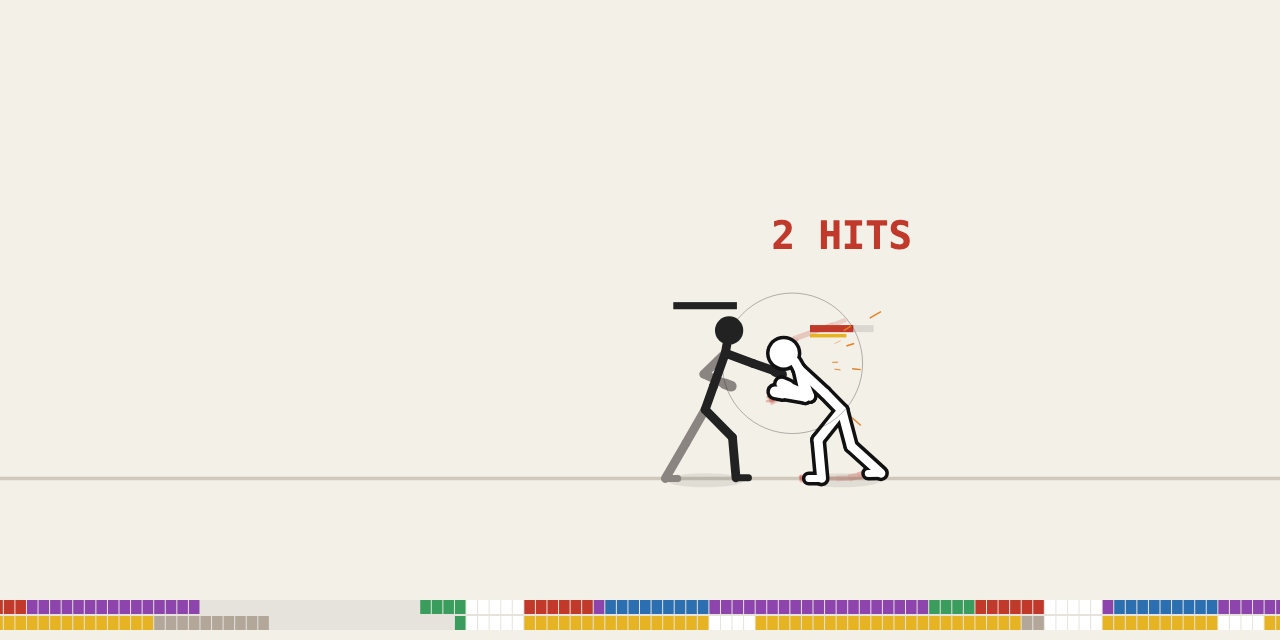
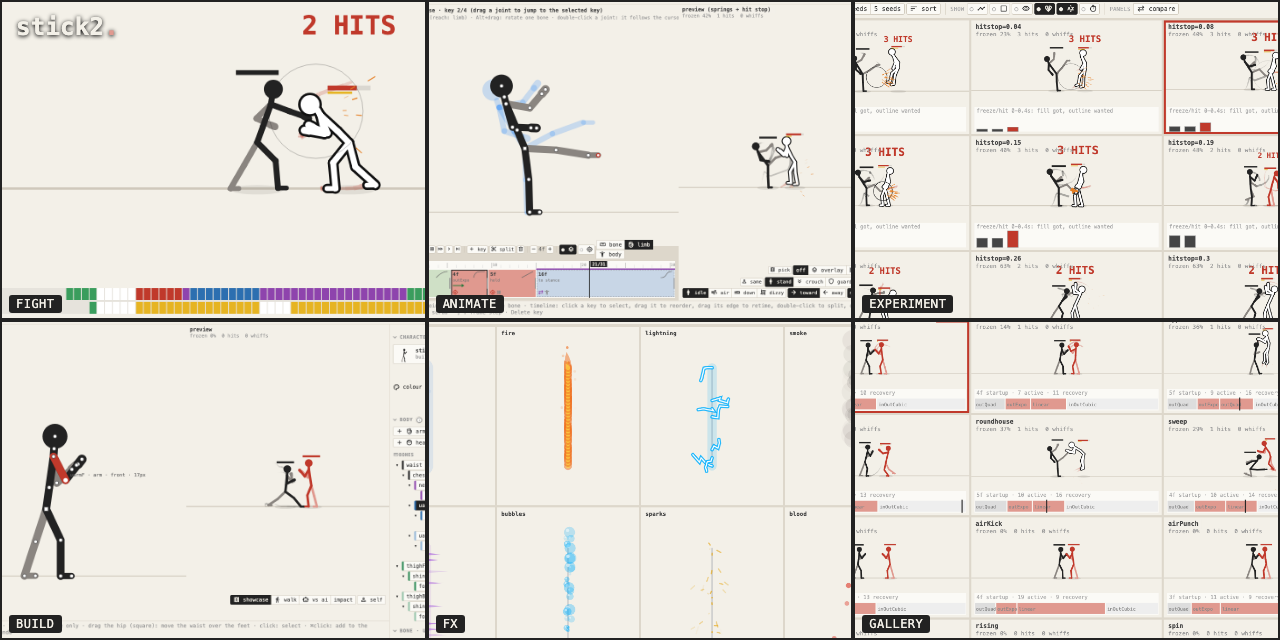
Social preview: a grid of six tools, not just one fight
- new tools/social.js composites existing docs/img screenshots
  (fight, animate, experiment, character, fx, gallery) into
  docs/img/social.png via headless Chrome and CSS background-image -
  no new dependency, same pattern as screenshots.js/animations.js
- removes the single-scene 'social' shot from screenshots.js (same
  output path, would have overwritten the composite)
- documented in docs/README.md and docs/development.md

diff --git a/tools/social.js b/tools/social.js
@@ -1,0 +1,29 @@
+// the GitHub repo's social preview image (1280 × 640, Settings → General → Social preview): a grid of existing
+// docs/img screenshots, composited by headless Chrome (CSS background-image, no new dependency). usage: node tools/social.js
+const fs = require('fs'), os = require('os'), path = require('path'), { execFileSync } = require('child_process');
+const root = path.join(__dirname, '..'), imgDir = path.join(root, 'docs', 'img'), out = path.join(imgDir, 'social.png');
+const { findChrome } = require('./chrome'), chrome = findChrome();
+if (!chrome) { console.log('no Chrome found (set CHROME)'); process.exit(1); }
+
+const W = 1280, H = 640, COLS = 3, ROWS = 2, cellW = W / COLS, cellH = H / ROWS;
+// one tile per tool, each an existing docs/img shot (node tools/screenshots.js regenerates them)
+const TILES = [
+  ['play', 'fight'], ['animate', 'animate'], ['experiment', 'experiment'],
+  ['character', 'build'], ['fx', 'fx'], ['gallery', 'gallery'],
+];
+const cells = TILES.map(([img, label], i) => {
+  const x = (i % COLS) * cellW, y = Math.floor(i / COLS) * cellH;
+  return `<div class="cell" style="left:${x}px;top:${y}px;width:${cellW}px;height:${cellH}px;background-image:url(file://${path.join(imgDir, img + '.png')})"><span>${label}</span></div>`;
+}).join('');
+const html = `<!doctype html><meta charset="utf-8"><style>
+html, body { margin: 0; width: ${W}px; height: ${H}px; background: #222; overflow: hidden; font: 12px ui-monospace, Menlo, monospace; }
+.cell { position: absolute; background-size: cover; background-position: center; box-sizing: border-box; border: 2px solid #222; }
+.cell span { position: absolute; left: 7px; bottom: 5px; background: #222; color: #f3f0e8; padding: 2px 7px; border-radius: 3px; font-size: 12px; letter-spacing: .04em; text-transform: uppercase; }
+.badge { position: absolute; left: 16px; top: 13px; z-index: 2; color: #f3f0e8; font-weight: bold; font-size: 24px; letter-spacing: .01em; text-shadow: 0 1px 4px #000; }
+.badge b { color: #e0998f; }
+</style><body>${cells}<div class="badge">stick2<b>.</b></div></body>`;
+const page = path.join(os.tmpdir(), 'stick2-social.html');
+fs.writeFileSync(page, html);
+execFileSync(chrome, ['--headless=new', '--disable-gpu', '--allow-file-access-from-files', '--hide-scrollbars', `--window-size=${W},${H}`,
+  '--virtual-time-budget=2000', `--screenshot=${out}`, 'file://' + page], { stdio: 'inherit' });
+console.log(path.relative(root, out));

diff --git a/tools/screenshots.js b/tools/screenshots.js
@@ -11,8 +11,6 @@ const SHOTS = {
   play: [`lab.scen = 'ai vs ai'; setMode('play'); lab.meter = true; build(); panels(); ${run(150)}`, [0, 400, 1100, 370]],
   // the itch.io cover image (630 × 500)
   cover: [`lab.scen = 'ai vs ai'; setMode('play'); lab.meter = true; build(); panels(); ${run(150)}`, [440, 268, 630, 500]],
-  // the GitHub repo's social preview image (1280 × 640, Settings → General → Social preview): theater mode, no UI chrome
-  social: [`lab.scen = 'ai vs ai'; setMode('play'); lab.meter = true; build(); panels(); setTheater(true); ${run(150)}`, [60, 160, 1280, 640]],
   animate: [`setMode('animate'); anim.move = 'roundhouse'; animMode.enter(); panels(); anim.t = 0.35; anim.playing = false; previewAt(anim.t); mode().render();`, [0, 80, 1100, 720]],
   character: [`setMode('character'); panels(); ${run(30)}`, [0, 80, 1400, 720]],
   gallery: [`setMode('gallery'); panels(); ${run(40)}`, [0, 80, 1100, 600]],

diff --git a/docs/development.md b/docs/development.md
@@ -20,6 +20,7 @@ How the code is laid out, and the tools that build its generated files.
 | `node tools/build-info.js` | writes `src/build.js`: git commit, branch, date, uncommitted changes (`npm test` runs it) |
 | `node tools/screenshots.js [name …]` | regenerates the screenshots in `docs/img/` (headless Chrome; no name = every shot) |
 | `node tools/animations.js [name …]` | regenerates the short animations (`anim-*.png`): each loops one scenario, saved as an animated PNG (no name = every clip) |
+| `node tools/social.js` | composites a few of the screenshots into `docs/img/social.png`, the GitHub repo's social preview image |
 | `node tools/mcp.js [--serve PORT]` | the MCP server (`npm run mcp`): fights, settings, characters, scenarios, sounds, fx looks, the tracker, replays and pictures over MCP; `--serve` also serves the app for the live bridge (see [MCP server](mcp.md)) |
 | `npm run itch` | packs `dist/stick2-itch.zip` for itch.io: `index.html`, `docs.html`, `src/`, `fonts/` and `LICENSE` (see [Publishing on itch.io](#publishing-on-itchio)) |
 | `npm run itch:push` | runs the tests, packs the zip and uploads it with butler to `morbeo/stick2:html`, versioned by the commit (refuses uncommitted changes) |

diff --git a/docs/README.md b/docs/README.md
@@ -24,4 +24,4 @@ The full reference behind the [landing page](../README.md). The app has its own 
 
 ## Pictures
 
-The screenshots in [img/](img/) come from `node tools/screenshots.js`, and the animations (`anim-*.png`) from `node tools/animations.js`. Both use headless Chrome; rerun them after a visible change.
+The screenshots in [img/](img/) come from `node tools/screenshots.js`, and the animations (`anim-*.png`) from `node tools/animations.js`. Both use headless Chrome; rerun them after a visible change. `node tools/social.js` composites a few of those screenshots into `img/social.png`, the GitHub repo's social preview (Settings → General → Social preview) — rerun it after regenerating the shots it uses (play, animate, experiment, character, fx, gallery).
